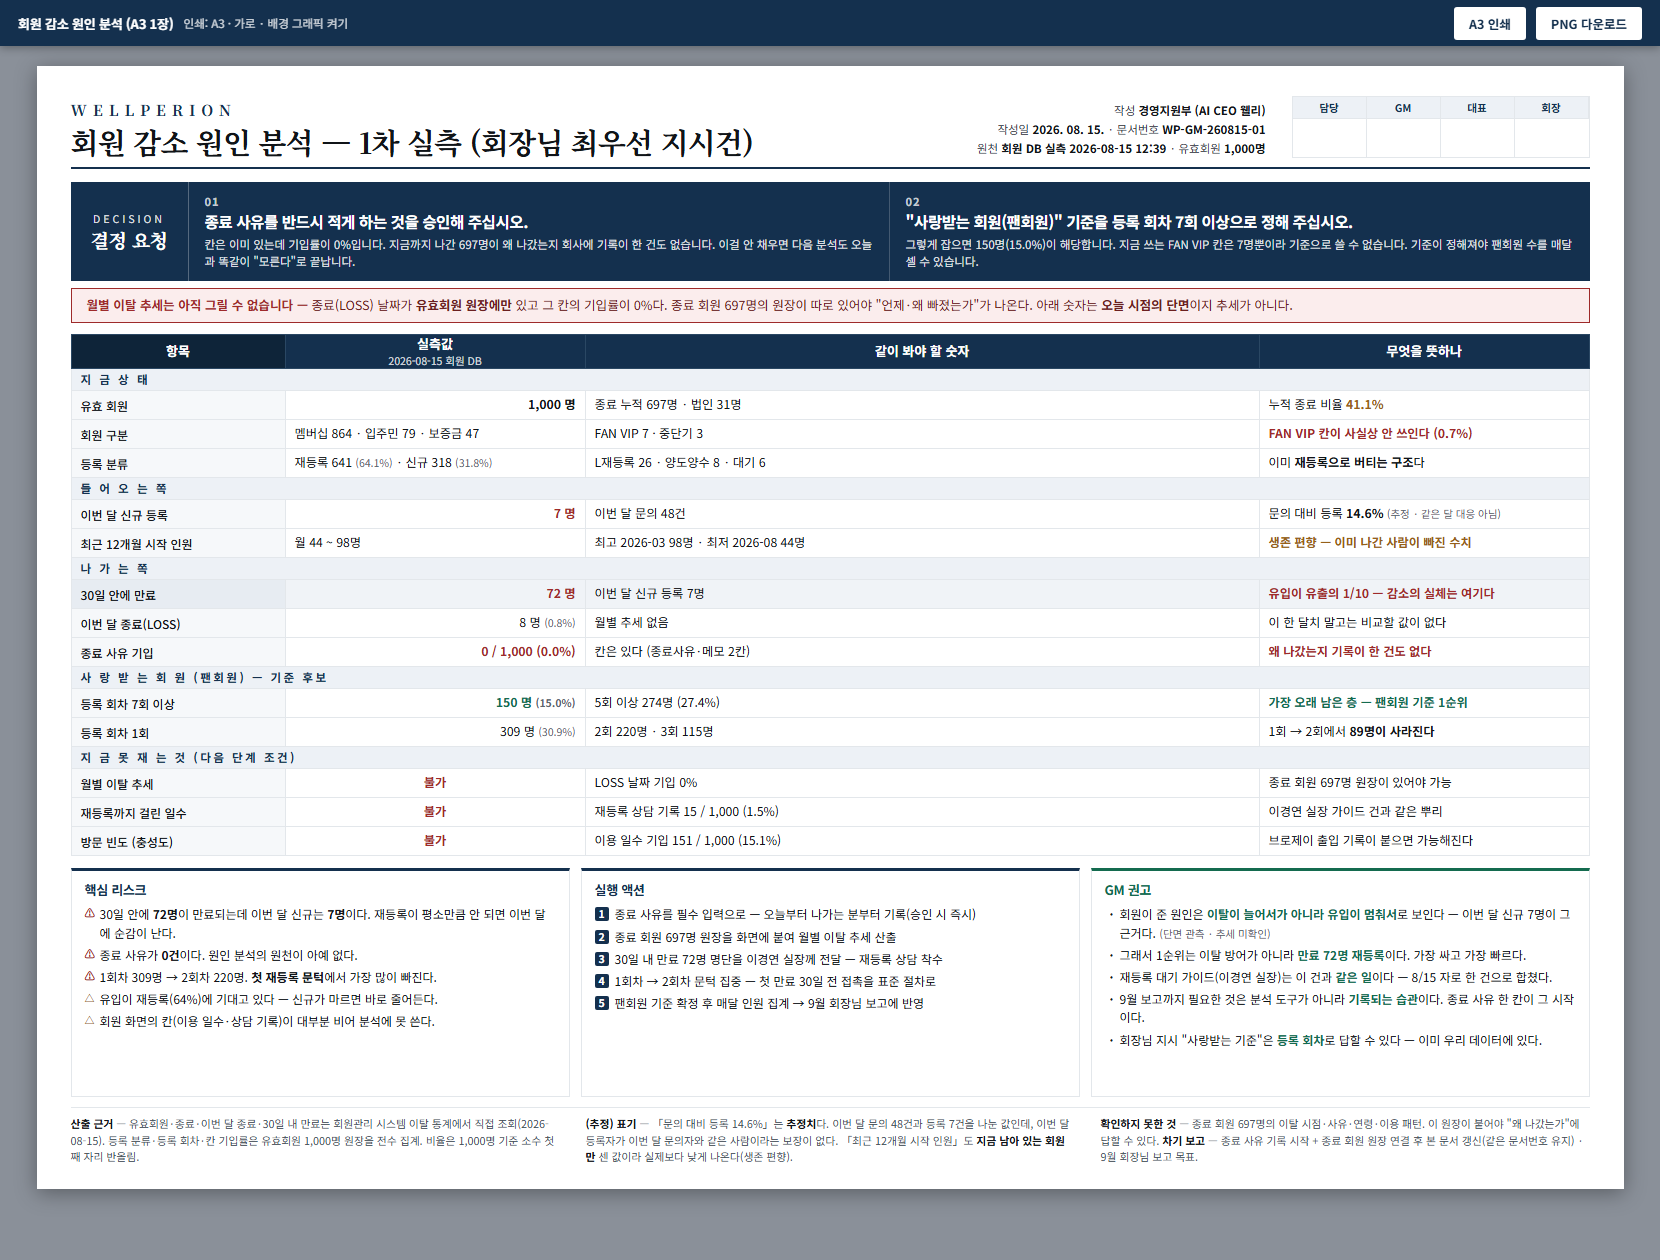
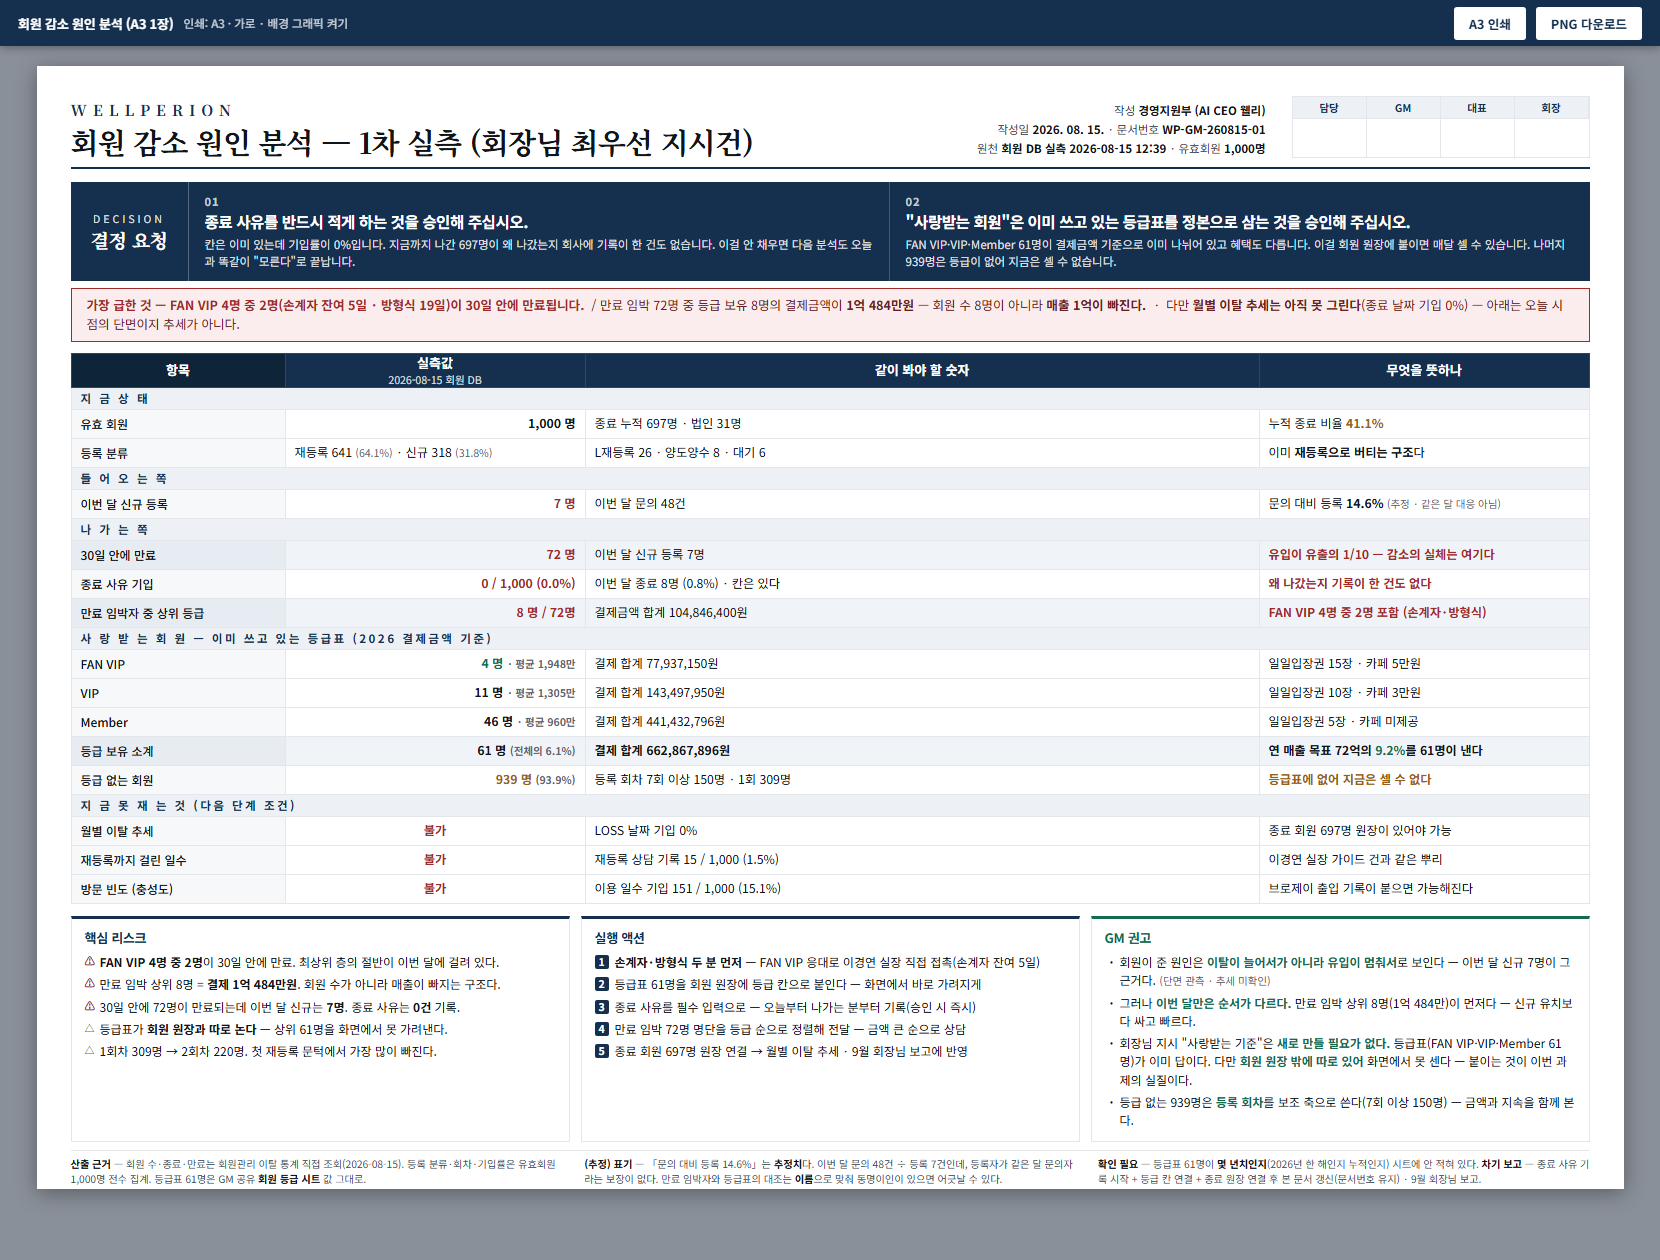
docs(gm): 회원 감소 분석 A3 갱신 — GM 공유 회원 등급 시트(FAN VIP 61명) 반영

Changed region(s): [[0.0307, 0.1548, 0.9524, 0.9595], [0.1536, 0.3405, 0.3072, 0.3714], [0.1843, 0.4024, 0.2151, 0.4333]]

diff --git a/3. 웰페리온 가이드/reports/260815_회원감소원인분석_A3.html b/3. 웰페리온 가이드/reports/260815_회원감소원인분석_A3.html
@@ -103,8 +103,8 @@
   .box.rec b{ color:var(--good); }
 
   /* ⑤ 각주 */
-  .foot{ margin-top:10px; border-top:1px solid var(--line); padding-top:7px;
-    display:flex; gap:26px; font-size:10.8px; line-height:1.55; color:#48525B; }
+  .foot{ margin-top:8px; border-top:1px solid var(--line); padding-top:6px;
+    display:flex; gap:22px; font-size:10.2px; line-height:1.45; color:#48525B; }
   .foot div{ flex:1; }
   .foot b{ color:var(--ink); }
 </style>
@@ -151,16 +151,16 @@
       </div>
       <div class="it">
         <div class="n">02</div>
-        <div class="q">"사랑받는 회원(팬회원)" 기준을 등록 회차 7회 이상으로 정해 주십시오.</div>
-        <div class="d">그렇게 잡으면 150명(15.0%)이 해당합니다. 지금 쓰는 FAN VIP 칸은 7명뿐이라 기준으로 쓸 수 없습니다. 기준이 정해져야 팬회원 수를 매달 셀 수 있습니다.</div>
+        <div class="q">"사랑받는 회원"은 이미 쓰고 있는 등급표를 정본으로 삼는 것을 승인해 주십시오.</div>
+        <div class="d">FAN VIP·VIP·Member 61명이 결제금액 기준으로 이미 나뉘어 있고 혜택도 다릅니다. 이걸 회원 원장에 붙이면 매달 셀 수 있습니다. 나머지 939명은 등급이 없어 지금은 셀 수 없습니다.</div>
       </div>
     </div>
   </div>
 
   <!-- 경고 밴드 -->
   <div class="alert">
-    월별 이탈 추세는 아직 그릴 수 없습니다 —
-    <span>종료(LOSS) 날짜가 <b>유효회원 원장에만</b> 있고 그 칸의 기입률이 0%다. 종료 회원 697명의 원장이 따로 있어야 "언제·왜 빠졌는가"가 나온다. 아래 숫자는 <b>오늘 시점의 단면</b>이지 추세가 아니다.</span>
+    가장 급한 것 — FAN VIP 4명 중 2명(손계자 잔여 5일 · 방형식 19일)이 30일 안에 만료됩니다.
+    <span>&nbsp;/ 만료 임박 72명 중 등급 보유 8명의 결제금액이 <b>1억 484만원</b> — 회원 수 8명이 아니라 <b>매출 1억이 빠진다.</b> &nbsp;·&nbsp; 다만 <b>월별 이탈 추세는 아직 못 그린다</b>(종료 날짜 기입 0%) — 아래는 오늘 시점의 단면이지 추세가 아니다.</span>
   </div>
 
   <!-- ③ 실측표 -->
@@ -178,21 +178,22 @@
     <tbody>
       <tr class="grp"><td colspan="4">지 금 상 태</td></tr>
       <tr><td class="k">유효 회원</td><td class="num strong">1,000 명</td><td>종료 누적 697명 · 법인 31명</td><td>누적 종료 비율 <b class="warn">41.1%</b></td></tr>
-      <tr><td class="k">회원 구분</td><td>멤버십 864 · 입주민 79 · 보증금 47</td><td>FAN VIP 7 · 중단기 3</td><td class="bad">FAN VIP 칸이 사실상 안 쓰인다 (0.7%)</td></tr>
       <tr><td class="k">등록 분류</td><td>재등록 641 <span class="est">(64.1%)</span> · 신규 318 <span class="est">(31.8%)</span></td><td>L재등록 26 · 양도양수 8 · 대기 6</td><td>이미 <b>재등록으로 버티는 구조</b>다</td></tr>
 
       <tr class="grp"><td colspan="4">들 어 오 는 쪽</td></tr>
       <tr><td class="k">이번 달 신규 등록</td><td class="num strong bad">7 명</td><td>이번 달 문의 48건</td><td>문의 대비 등록 <b>14.6%</b> <span class="est">(추정 · 같은 달 대응 아님)</span></td></tr>
-      <tr><td class="k">최근 12개월 시작 인원</td><td>월 44 ~ 98명</td><td>최고 2026-03 98명 · 최저 2026-08 44명</td><td class="warn">생존 편향 — 이미 나간 사람이 빠진 수치</td></tr>
 
       <tr class="grp"><td colspan="4">나 가 는 쪽</td></tr>
       <tr class="sum"><td class="k">30일 안에 만료</td><td class="num strong bad">72 명</td><td>이번 달 신규 등록 7명</td><td class="bad strong">유입이 유출의 1/10 — 감소의 실체는 여기다</td></tr>
-      <tr><td class="k">이번 달 종료(LOSS)</td><td class="num">8 명 <span class="est">(0.8%)</span></td><td>월별 추세 없음</td><td>이 한 달치 말고는 비교할 값이 없다</td></tr>
-      <tr><td class="k">종료 사유 기입</td><td class="num bad strong">0 / 1,000 (0.0%)</td><td>칸은 있다 (종료사유·메모 2칸)</td><td class="bad">왜 나갔는지 기록이 한 건도 없다</td></tr>
+      <tr><td class="k">종료 사유 기입</td><td class="num bad strong">0 / 1,000 (0.0%)</td><td>이번 달 종료 8명 (0.8%) · 칸은 있다</td><td class="bad">왜 나갔는지 기록이 한 건도 없다</td></tr>
+      <tr class="sum"><td class="k">만료 임박자 중 상위 등급</td><td class="num strong bad">8 명 / 72명</td><td>결제금액 합계 104,846,400원</td><td class="bad strong">FAN VIP 4명 중 2명 포함 (손계자·방형식)</td></tr>
 
-      <tr class="grp"><td colspan="4">사 랑 받 는 회 원 (팬회원) — 기준 후보</td></tr>
-      <tr><td class="k">등록 회차 7회 이상</td><td class="num strong good">150 명 <span class="est">(15.0%)</span></td><td>5회 이상 274명 (27.4%)</td><td class="good">가장 오래 남은 층 — 팬회원 기준 1순위</td></tr>
-      <tr><td class="k">등록 회차 1회</td><td class="num">309 명 <span class="est">(30.9%)</span></td><td>2회 220명 · 3회 115명</td><td>1회 → 2회에서 <b>89명이 사라진다</b></td></tr>
+      <tr class="grp"><td colspan="4">사 랑 받 는 회 원 — 이미 쓰고 있는 등급표 (2026 결제금액 기준)</td></tr>
+      <tr><td class="k">FAN VIP</td><td class="num strong good">4 명 <span class="est">· 평균 1,948만</span></td><td>결제 합계 77,937,150원</td><td>일일입장권 15장 · 카페 5만원</td></tr>
+      <tr><td class="k">VIP</td><td class="num strong">11 명 <span class="est">· 평균 1,305만</span></td><td>결제 합계 143,497,950원</td><td>일일입장권 10장 · 카페 3만원</td></tr>
+      <tr><td class="k">Member</td><td class="num strong">46 명 <span class="est">· 평균 960만</span></td><td>결제 합계 441,432,796원</td><td>일일입장권 5장 · 카페 미제공</td></tr>
+      <tr class="sum"><td class="k">등급 보유 소계</td><td class="num strong">61 명 <span class="est">(전체의 6.1%)</span></td><td class="strong">결제 합계 662,867,896원</td><td class="strong">연 매출 목표 72억의 <b class="good">9.2%</b>를 61명이 낸다</td></tr>
+      <tr><td class="k">등급 없는 회원</td><td class="num warn strong">939 명 <span class="est">(93.9%)</span></td><td>등록 회차 7회 이상 150명 · 1회 309명</td><td class="warn">등급표에 없어 지금은 셀 수 없다</td></tr>
 
       <tr class="grp"><td colspan="4">지 금 못 재 는 것 (다음 단계 조건)</td></tr>
       <tr><td class="k">월별 이탈 추세</td><td class="ctr bad">불가</td><td>LOSS 날짜 기입 0%</td><td>종료 회원 697명 원장이 있어야 가능</td></tr>
@@ -207,40 +208,39 @@
     <div class="box">
       <h3>핵심 리스크</h3>
       <ul>
-        <li class="r1">30일 안에 <b>72명</b>이 만료되는데 이번 달 신규는 <b>7명</b>이다. 재등록이 평소만큼 안 되면 이번 달에 순감이 난다.</li>
-        <li class="r1">종료 사유가 <b>0건</b>이다. 원인 분석의 원천이 아예 없다.</li>
-        <li class="r1">1회차 309명 → 2회차 220명. <b>첫 재등록 문턱</b>에서 가장 많이 빠진다.</li>
-        <li class="r2">유입이 재등록(64%)에 기대고 있다 — 신규가 마르면 바로 줄어든다.</li>
-        <li class="r2">회원 화면의 칸(이용 일수·상담 기록)이 대부분 비어 분석에 못 쓴다.</li>
+        <li class="r1"><b>FAN VIP 4명 중 2명</b>이 30일 안에 만료. 최상위 층의 절반이 이번 달에 걸려 있다.</li>
+        <li class="r1">만료 임박 상위 8명 = <b>결제 1억 484만원</b>. 회원 수가 아니라 매출이 빠지는 구조다.</li>
+        <li class="r1">30일 안에 72명이 만료되는데 이번 달 신규는 <b>7명</b>. 종료 사유는 <b>0건</b> 기록.</li>
+        <li class="r2">등급표가 <b>회원 원장과 따로 논다</b> — 상위 61명을 화면에서 못 가려낸다.</li>
+        <li class="r2">1회차 309명 → 2회차 220명. 첫 재등록 문턱에서 가장 많이 빠진다.</li>
       </ul>
     </div>
     <div class="box">
       <h3>실행 액션</h3>
       <ul class="ord">
+        <li class="n"><b>손계자·방형식 두 분 먼저</b> — FAN VIP 응대로 이경연 실장 직접 접촉(손계자 잔여 5일)</li>
+        <li class="n">등급표 61명을 회원 원장에 등급 칸으로 붙인다 — 화면에서 바로 가려지게</li>
         <li class="n">종료 사유를 필수 입력으로 — 오늘부터 나가는 분부터 기록(승인 시 즉시)</li>
-        <li class="n">종료 회원 697명 원장을 화면에 붙여 월별 이탈 추세 산출</li>
-        <li class="n">30일 내 만료 72명 명단을 이경연 실장께 전달 — 재등록 상담 착수</li>
-        <li class="n">1회차 → 2회차 문턱 집중 — 첫 만료 30일 전 접촉을 표준 절차로</li>
-        <li class="n">팬회원 기준 확정 후 매달 인원 집계 → 9월 회장님 보고에 반영</li>
+        <li class="n">만료 임박 72명 명단을 등급 순으로 정렬해 전달 — 금액 큰 순으로 상담</li>
+        <li class="n">종료 회원 697명 원장 연결 → 월별 이탈 추세 · 9월 회장님 보고에 반영</li>
       </ul>
     </div>
     <div class="box rec">
       <h3>GM 권고</h3>
       <ul>
         <li>회원이 준 원인은 <b>이탈이 늘어서가 아니라 유입이 멈춰서</b>로 보인다 — 이번 달 신규 7명이 그 근거다. <span class="est">(단면 관측 · 추세 미확인)</span></li>
-        <li>그래서 1순위는 이탈 방어가 아니라 <b>만료 72명 재등록</b>이다. 가장 싸고 가장 빠르다.</li>
-        <li>재등록 대기 가이드(이경연 실장)는 이 건과 <b>같은 일</b>이다 — 8/15 자로 한 건으로 합쳤다.</li>
-        <li>9월 보고까지 필요한 것은 분석 도구가 아니라 <b>기록되는 습관</b>이다. 종료 사유 한 칸이 그 시작이다.</li>
-        <li>회장님 지시 "사랑받는 기준"은 <b>등록 회차</b>로 답할 수 있다 — 이미 우리 데이터에 있다.</li>
+        <li>그러나 <b>이번 달만은 순서가 다르다.</b> 만료 임박 상위 8명(1억 484만)이 먼저다 — 신규 유치보다 싸고 빠르다.</li>
+        <li>회장님 지시 "사랑받는 기준"은 <b>새로 만들 필요가 없다.</b> 등급표(FAN VIP·VIP·Member 61명)가 이미 답이다. 다만 <b>회원 원장 밖에 따로 있어</b> 화면에서 못 센다 — 붙이는 것이 이번 과제의 실질이다.</li>
+        <li>등급 없는 939명은 <b>등록 회차</b>를 보조 축으로 쓴다(7회 이상 150명) — 금액과 지속을 함께 본다.</li>
       </ul>
     </div>
   </div>
 
   <!-- ⑤ 각주 -->
   <div class="foot">
-    <div><b>산출 근거</b> — 유효회원·종료·이번 달 종료·30일 내 만료는 회원관리 시스템 이탈 통계에서 직접 조회(2026-08-15). 등록 분류·등록 회차·칸 기입률은 유효회원 1,000명 원장을 전수 집계. 비율은 1,000명 기준 소수 첫째 자리 반올림.</div>
-    <div><b>(추정) 표기</b> — 「문의 대비 등록 14.6%」는 <b>추정치</b>다. 이번 달 문의 48건과 등록 7건을 나눈 값인데, 이번 달 등록자가 이번 달 문의자와 같은 사람이라는 보장이 없다. 「최근 12개월 시작 인원」도 <b>지금 남아 있는 회원만</b> 센 값이라 실제보다 낮게 나온다(생존 편향).</div>
-    <div><b>확인하지 못한 것</b> — 종료 회원 697명의 이탈 시점·사유·연령·이용 패턴. 이 원장이 붙어야 "왜 나갔는가"에 답할 수 있다. <b>차기 보고</b> — 종료 사유 기록 시작 + 종료 회원 원장 연결 후 본 문서 갱신(같은 문서번호 유지) · 9월 회장님 보고 목표.</div>
+    <div><b>산출 근거</b> — 회원 수·종료·만료는 회원관리 이탈 통계 직접 조회(2026-08-15). 등록 분류·회차·기입률은 유효회원 1,000명 전수 집계. 등급표 61명은 GM 공유 <b>회원 등급 시트</b> 값 그대로.</div>
+    <div><b>(추정) 표기</b> — 「문의 대비 등록 14.6%」는 <b>추정치</b>다. 이번 달 문의 48건 ÷ 등록 7건인데, 등록자가 같은 달 문의자라는 보장이 없다. 만료 임박자와 등급표의 대조는 <b>이름</b>으로 맞춰 동명이인이 있으면 어긋날 수 있다.</div>
+    <div><b>확인 필요</b> — 등급표 61명이 <b>몇 년치인지</b>(2026년 한 해인지 누적인지) 시트에 안 적혀 있다. <b>차기 보고</b> — 종료 사유 기록 시작 + 등급 칸 연결 + 종료 원장 연결 후 본 문서 갱신(문서번호 유지) · 9월 회장님 보고.</div>
   </div>
 
 </div>
